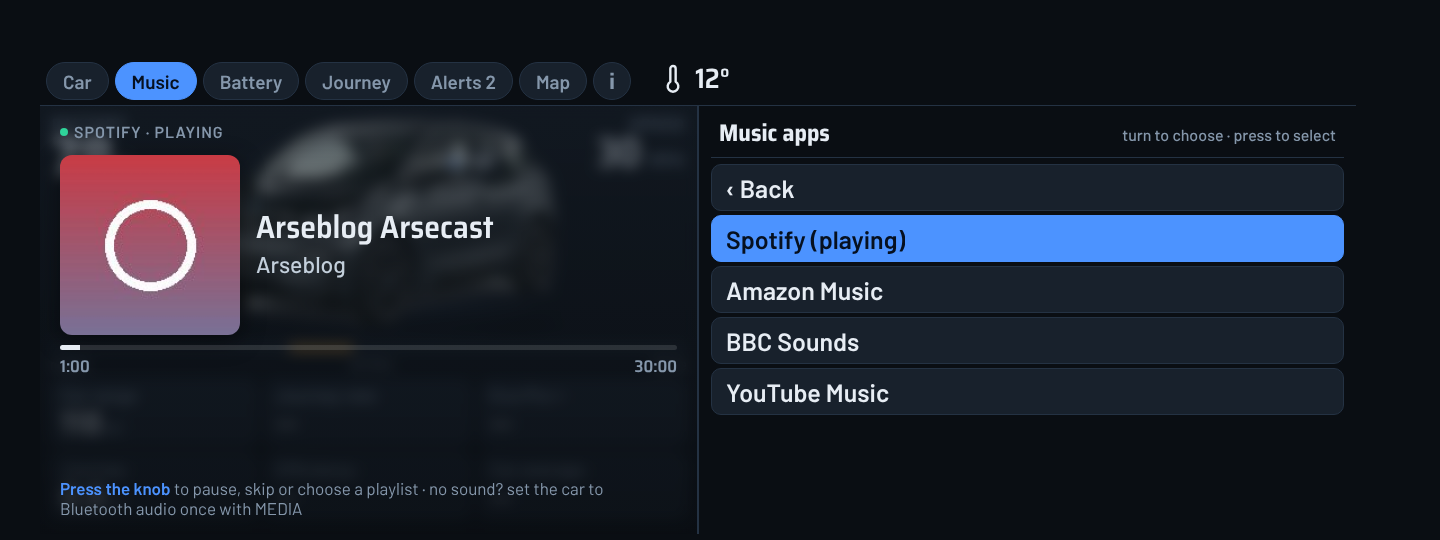
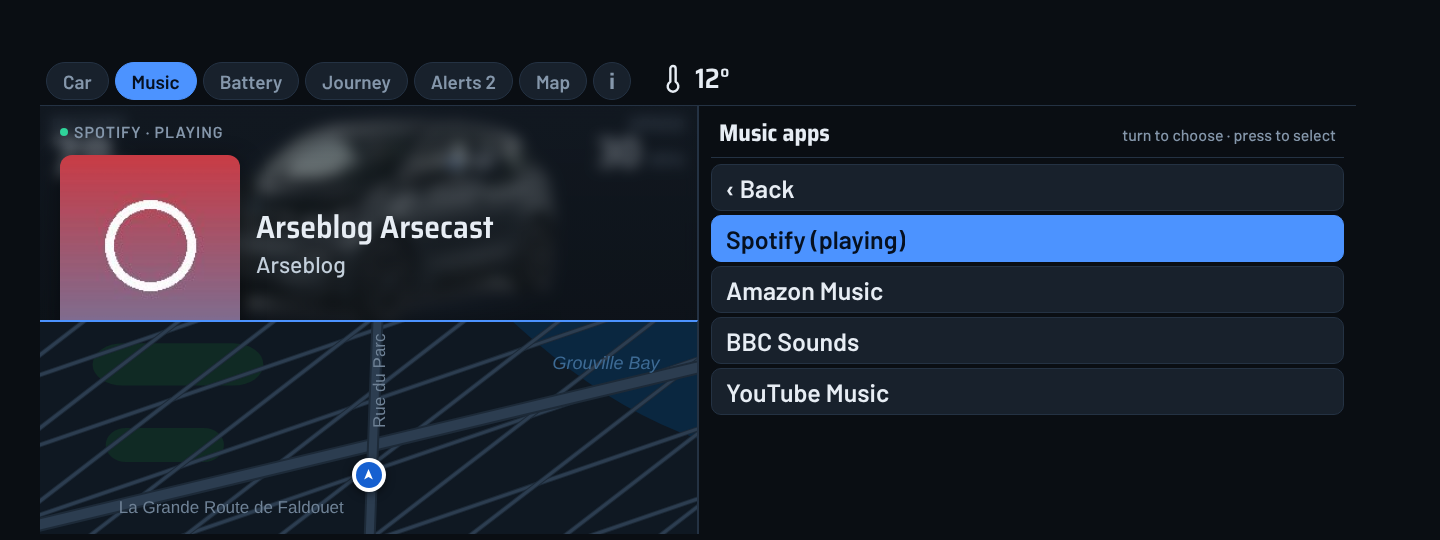
Keep the map live beside the in-dash menu
Claude-Session: https://claude.ai/code/session_012qQKmKQnTSeY3dbxDfNLy6

Changed region(s): [[0.0, 0.5926, 0.5, 1.0], [0.0312, 0.7407, 0.125, 0.8593]]

diff --git a/app/src/main/assets/i3dash/index.html b/app/src/main/assets/i3dash/index.html
@@ -40,7 +40,7 @@ header{display:flex;align-items:flex-end;gap:14px;padding:0 6px 5px;border-botto
 .wxi svg{width:32px;height:32px;stroke:var(--ink);fill:none;stroke-width:1.8;stroke-linecap:round;stroke-linejoin:round;display:block}
 .ti{width:38px;padding:0!important;justify-content:center;font:700 22px var(--f-d)!important}
 .clock{font:600 20px var(--f-d)}
-.body{display:grid;grid-template-columns:50% 1fr;min-height:0}
+.body{position:relative;display:grid;grid-template-columns:50% 1fr;min-height:0}
 .body.wide{grid-template-columns:0 1fr}
 aside{position:relative;padding:8px 10px;display:flex;flex-direction:column;gap:6px;border-right:1px solid var(--line);overflow:hidden;min-width:0}
 .top{display:flex;justify-content:space-between;align-items:flex-end}
@@ -114,7 +114,7 @@ aside{position:relative;padding:8px 10px;display:flex;flex-direction:column;gap:
 .al-app{font:600 14px var(--f-b);letter-spacing:.06em;text-transform:uppercase;color:var(--muted)}
 .al-t{font:600 20px var(--f-b);white-space:nowrap;overflow:hidden;text-overflow:ellipsis}
 .al-x{font:500 16px var(--f-b);color:#c3cfdb;white-space:nowrap;overflow:hidden;text-overflow:ellipsis}
-.menu{position:absolute;top:0;right:0;bottom:0;width:min(100%,680px);z-index:9;background:var(--bg);border-left:1px solid var(--line);padding:8px 12px;display:flex;flex-direction:column;gap:4px}
+.menu{position:absolute;top:0;right:0;bottom:0;width:50%;z-index:9;background:var(--bg);border-left:1px solid var(--line);padding:8px 12px;display:flex;flex-direction:column;gap:4px}
 .mt{display:flex;justify-content:space-between;align-items:baseline;font:700 24px var(--f-d);padding:0 8px 5px;border-bottom:1px solid var(--line);margin-bottom:2px}
 .mt small{font:500 16px var(--f-b);color:var(--muted)}
 .mi{height:47px;flex:none;border-radius:10px;padding:0 14px;display:flex;align-items:center;justify-content:space-between;gap:12px;font:600 25px var(--f-b);background:var(--panel2);border:1px solid var(--line)}
@@ -124,6 +124,16 @@ aside{position:relative;padding:8px 10px;display:flex;flex-direction:column;gap:
 .mi.on{background:var(--accent);border-color:var(--accent);color:var(--accent-ink)}.mi.on small,.mi.on b{color:var(--accent-ink)}
 .mi.dim{color:var(--muted);font-size:20px}
 .toast{position:absolute;left:50%;bottom:64px;transform:translateX(-50%);z-index:10;font:600 22px var(--f-b);background:var(--panel);border:1px solid var(--accent);border-radius:12px;padding:8px 18px;white-space:nowrap}
+/* while the menu is open the map stays live: bottom left quarter, or the left half on the Map page */
+.body.menuopen .nav{position:absolute;left:0;bottom:0;width:50%;height:50%;z-index:9;border-top:2px solid var(--accent);border-right:1px solid var(--line)}
+.body.wide.menuopen .nav{top:0;height:auto;border-top:0}
+.body.menuopen .np,.body.menuopen .mhint,.body.menuopen .pages,.body.menuopen .diag{display:none}
+.body.menuopen:not(.wide) .call{bottom:50%;padding:10px 26px;gap:6px}
+.body.menuopen:not(.wide) .call .ci{display:none}
+.body.menuopen:not(.wide) .turn{left:8px;top:8px;padding:5px 10px;max-width:78%}
+.body.menuopen:not(.wide) .turn svg{width:34px;height:34px}.body.menuopen:not(.wide) .turn .d{font-size:28px}.body.menuopen:not(.wide) .turn .i{font-size:18px}
+.body.menuopen:not(.wide) .eta{left:8px;bottom:8px;padding:4px 10px;gap:14px}.body.menuopen:not(.wide) .eta b{font-size:24px}.body.menuopen:not(.wide) .eta .lbl{font-size:12px}
+.body.menuopen:not(.wide) .lim{right:10px;bottom:10px;transform:scale(.72);transform-origin:bottom right}
 .leaflet-container{background:#141b23}
 .maplibregl-ctrl-attrib{font-size:9px!important;background:rgba(10,14,19,.6)!important;color:var(--muted)!important}
 .maplibregl-ctrl-attrib a{color:var(--muted)!important}
@@ -171,13 +181,13 @@ aside{position:relative;padding:8px 10px;display:flex;flex-direction:column;gap:
       </div>
       <div class="mapmsg" id="mapmsg" hidden></div>
       <div class="mhint" id="mhint">Press the knob <b>›</b> Menu</div>
-      <div class="menu" id="menu" hidden></div>
-      <div class="toast" id="toast" hidden></div>
       <div class="np" id="np" hidden></div>
       <div class="lim" id="lim" hidden></div>
       <div class="pages" id="pages"></div>
       <div class="diag" id="diag"></div>
     </section>
+    <div class="menu" id="menu" hidden></div>
+    <div class="toast" id="toast" hidden></div>
   </div>
 </div>
 
@@ -459,7 +469,11 @@ function openMenu(title,items,sel,wait){$('#toast').hidden=true;menu={title,item
 function closeMenu(){menu=null;clearTimeout(menuTimer);drawMenu()}
 function menuAlive(){clearTimeout(menuTimer);menuTimer=setTimeout(closeMenu,MENU_IDLE_MS)}
 function drawMenu(){
-  const el=$('#menu');
+  const el=$('#menu'),body=$('#body');
+  if(body.classList.contains('menuopen')!==!!menu){   // the map moves aside or back, so it has to be measured again
+    body.classList.toggle('menuopen',!!menu);
+    try{map&&map.resize();flat&&flat.invalidateSize();placeCamera()}catch(e){}
+  }
   if(!menu){if(!el.hidden)el.hidden=true;return}
   if(el.hidden)el.hidden=false;
   const n=menu.items.length,first=Math.max(0,Math.min(n-MENU_ROWS,menu.sel-Math.floor(MENU_ROWS/2)));

diff --git a/CHANGELOG.md b/CHANGELOG.md
@@ -5,6 +5,7 @@ Newest first. The app is built automatically and published as `i3-dash.apk` on t
 
 ## 12 November 2026
 
+- **Map stays live with the menu open:** it moves to the bottom left quarter (the left half on the Map page) and keeps showing your position, next turn, arrival time and speed limit.
 - **One place for everything (new, untested in the car):** the knob press now opens a menu inside the dash, where it used to jump to the car's own menu. Navigate, Call, Music, Video and Read alerts aloud are all there, and the knob scrolls and selects. Pressing on the Music page goes straight to music, and on the Map page straight to places.
 - **Straight in:** choosing i3D in the car opens the dash directly, with no menu screen first. The car entry is now named i3D.
 - **Calls:** a ringing call shows only Answer and Decline. When the car switches to its own phone screen as a call connects, i3D brings the dash back once.

diff --git a/README.md b/README.md
@@ -60,7 +60,9 @@ If it sits on "waiting for car connection", close the BMW Connected app, restart
 
 Everything happens inside the dash. Turn the iDrive knob to move between pages. Press the knob for the menu, turn to choose, and press to select. The menu closes by itself after 20 seconds.
 
-![The menu](docs/screenshots/menu-main.png)
+The map stays live while the menu is open. It moves to the bottom left with your next turn, arrival time and the speed limit, and goes back when the menu closes.
+
+![The menu while navigating](docs/screenshots/menu-nav.png)
 
 - **Navigate**: saved places, the nearest charger, recent places, or **Type a place** on the car's letter wheel. Picking a result comes straight back to the dash.
 - **Call**: your starred contacts, or type a name. During a call the menu starts with **Hang up**. When the phone rings it shows only **Answer call** and **Decline call**.

diff --git a/docs/SCREENSHOTS.md b/docs/SCREENSHOTS.md
@@ -48,7 +48,14 @@ Press the knob to hang up.
 
 ## The menu
 
-Press the knob anywhere in the dash and the menu slides over the map. Turn to choose, press to select. These are renders of the real menu.
+Press the knob anywhere in the dash and the menu opens on the right. The map stays live in the bottom left, with your next turn, arrival time and the speed limit. Turn to choose, press to select. These are renders of the real menu.
+
+### While navigating
+![Menu while navigating](screenshots/menu-nav.png)
+
+### On the Map page
+The map keeps the left half.
+![Menu on the Map page](screenshots/menu-map.png)
 
 ### Main menu
 ![Main menu](screenshots/menu-main.png)
